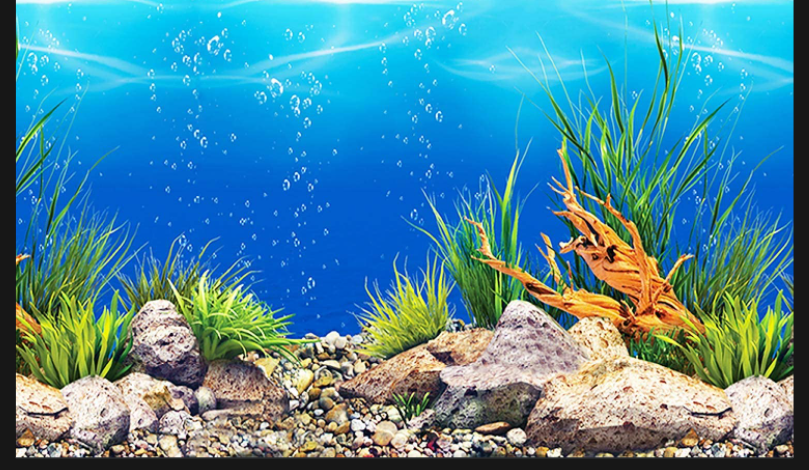
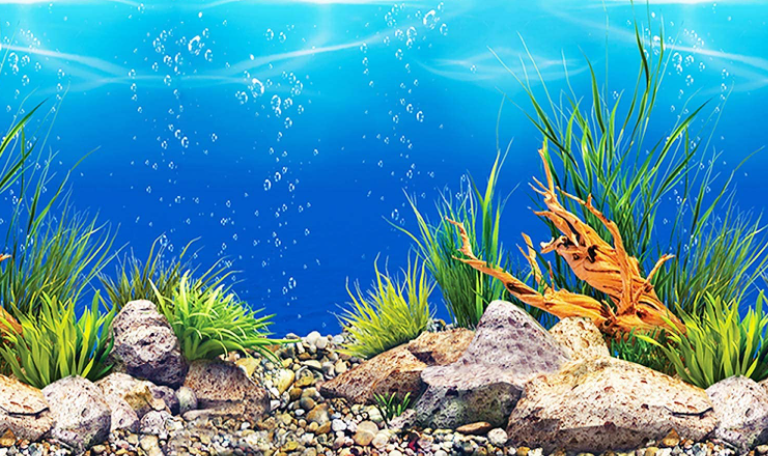
Third commit

diff --git a/fishTank.js b/fishTank.js
@@ -4,61 +4,116 @@ const crab = document.getElementById ("crab");
 const petName = document.getElementById ("petName");
 const submit = document.getElementById ("submit");
 const fishPic = document.getElementById ("fishpic");
+let response = document.getElementById ("response");
+const feed = document.getElementById ("feed");
+const play = document.getElementById ("play");
+const clean = document.getElementById ("clean");
+const sleep = document.getElementById ("sleep");
+const audioClown = document.getElementById("audioClown");
+const audioShark = document.getElementById("audioShark");
+const audioCrab = document.getElementById("audioCrab");
+
+
+
+
+let fishType;
 
 class Creature {
     constructor(name, fish) {
         this._name = name;
         this.score = 0;
-        this._fish = fish;
     }
     eat() {
         this.score++;
-        return "chomp chomp chomp";
+        response.textContent = `${this._name} was hungry: "chomp chomp chomp". You now have ${this.score} scales`;
+        if (fishType == "clown") {
+            fishPic.src = "fishPics/HappyClownfish.png" 
+        } else if (fishType == "shark") {
+            fishPic.src = "fishPics/HappyShark.jpg"
+        } else {
+            fishPic.src = "fishPics/HappyCrab.png"
+        }
     }
+
     sleep() {
         this.score++;
-        return "ZZZZZZ";
+        response.textContent = `${this._name} was sleepy: "ZZZZZZ". You now have ${this.score} scales`;
+        if (fishType == "clown") {
+            fishPic.src = "fishPics/HappyClownfish.png" 
+        } else if (fishType == "shark") {
+            fishPic.src = "fishPics/HappyShark.jpg"
+        } else {
+            fishPic.src = "fishPics/HappyCrab.png"
+        }
     }
-    song() {
+    song() {    
         this.score--;
-        return "I hate this song!";
+        response.textContent = `${this._name} is not happy: "I hate this song!" You now have ${this.score} scales`;
+        if (fishType == "clown") {
+            fishPic.src = "fishPics/SadClownfish.png" 
+            audioClown.src = "fishSongs/9 secs Tears of a Clown.mp3"
+        } else if (fishType == "shark") {
+            fishPic.src = "fishPics/SadShark.jpg"
+            audioShark.src = "fishSongs/8 sec Baby Shark.mp3"
+        } else {
+            fishPic.src = "fishPics/SadCrab.png"
+            audioCrab.src = "fishSongs/9 sec Under the Sea.mp3"
+        }
     }
     cleanTank() {
         this.score--;
-        return "Thank you for cleaning my tank"
+        response.textContent = `${this._name} is not happy: "I hate cleaning!" You now have ${this.score} scales`;
+        if (fishType == "clown") {
+            fishPic.src = "fishPics/SadClownfish.png" 
+        } else if (fishType == "shark") {
+            fishPic.src = "fishPics/SadShark.jpg"
+        } else {
+            fishPic.src = "fishPics/SadCrab.png"
+        }
     }
+    
 }
 
 // on click of choice pic appears
 clown.addEventListener ("click" , () => {
-    fishPic.src = "fishPics/RealClownfish.png"
+    fishPic.src = "fishPics/RealClownfish.png";
+    fishType = "clown";
 })
 
 shark.addEventListener ("click" , () => {
     fishPic.src = "fishPics/RealShark.jpg"
+    fishType = "shark";
 })
 
 crab.addEventListener ("click" , () => {
     fishPic.src = "fishPics/RealCrab.png"
+    fishType = "crab"; 
 })
 
 // on submit of info name pet
 
 let fish;
 submit.addEventListener ("click" , () => {
-    fish = new Creature (petName.value, "clown")
+    fish = new Creature (petName.value)
 })
 
+// step 3 comment
 
-clown.addEventListener ("click" , () => {
-    fish = new Creature (petName.value, "clown")
-});
+feed.addEventListener ("click" , () => {
+    fish.eat()
+    if (fish.score == 10) {
+        response.textContent = "WELL DONE! YOUR PET IS HAPPY!"
+    }
+})
 
-shark.addEventListener ("click" , () => {
-    fish = new Creature (petName.value, "shark")
-});
+play.addEventListener ("click" , () => {
+    fish.song()
+})
 
-  
-crab.addEventListener ("click" , () => {
-    fish = new Creature (petName.value, "crab");
-});
+clean.addEventListener ("click" , () => {
+    fish.cleanTank()
+})
+
+sleep.addEventListener ("click" , () => {
+    fish.sleep()
+})

diff --git a/index.html b/index.html
@@ -38,10 +38,12 @@
                 <button id = "sleep" class="buttons">SLEEP</button>
             </div>
 
+            <p id = "response"></p>
+
             <div id = "fishSongs">
-                <audio id = "audioClown" src = "" autoplay = "false"></audio>
-                <audio id = "audioShark" src = "" autoplay = "false"></audio>
-                <audio id = "audioCrab" src = "" autoplay = "false"></audio>
+                <audio id = "audioClown" src="" autoplay = "false"  ></audio>
+                <audio id = "audioShark" src="" autoplay = "false"></audio>
+                <audio id = "audioCrab" src="" autoplay = "false"></audio>
             </div>
 
         </main>

diff --git a/style.css b/style.css
@@ -1,3 +1,19 @@
+@import url('https://fonts.googleapis.com/css2?family=Bebas+Neue&display=swap');
+
+body {
+    background-image: url(fishPics/Fishtank3.png);
+    background-repeat: no-repeat;
+    background-position: right top; 
+    background-attachment: initial;
+    background-size: cover;
+    margin: auto;
+}
+
+h1, h2, p {
+    font-family:'Bebas Neue', cursive;
+}
+
 .buttons {
     border-radius: 12px;
 }
+
